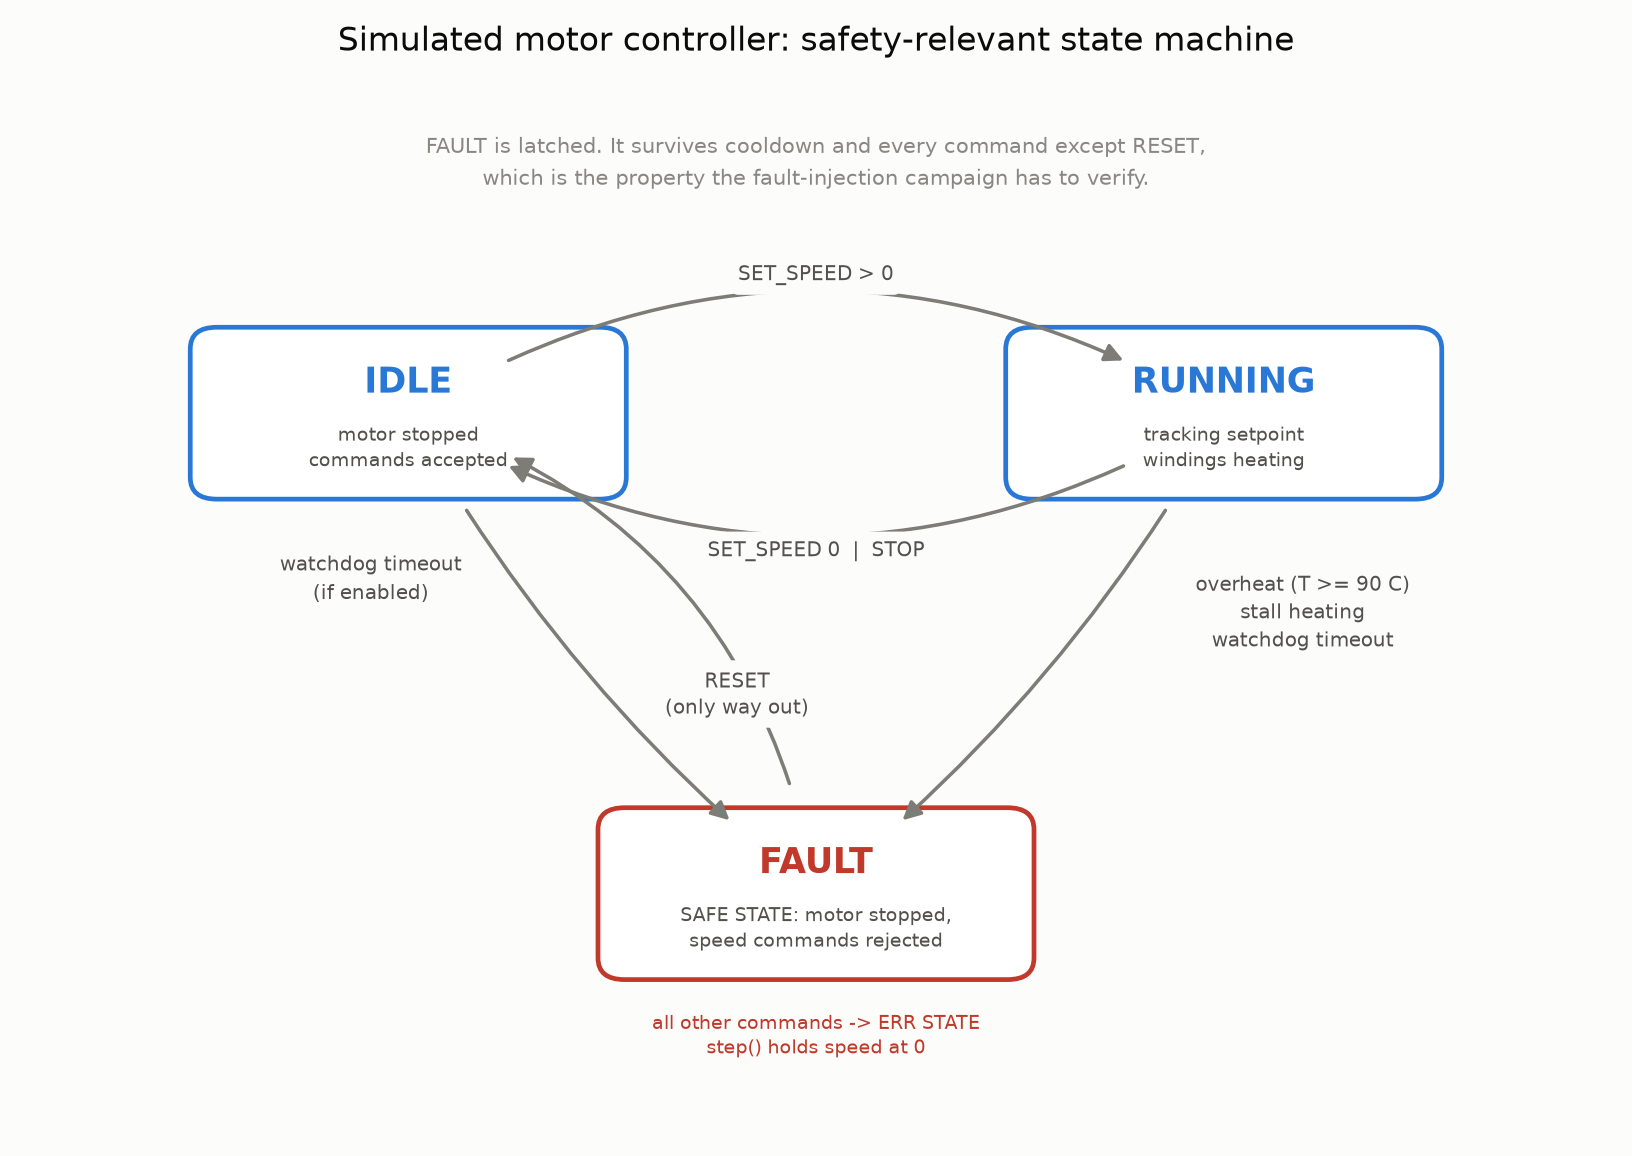
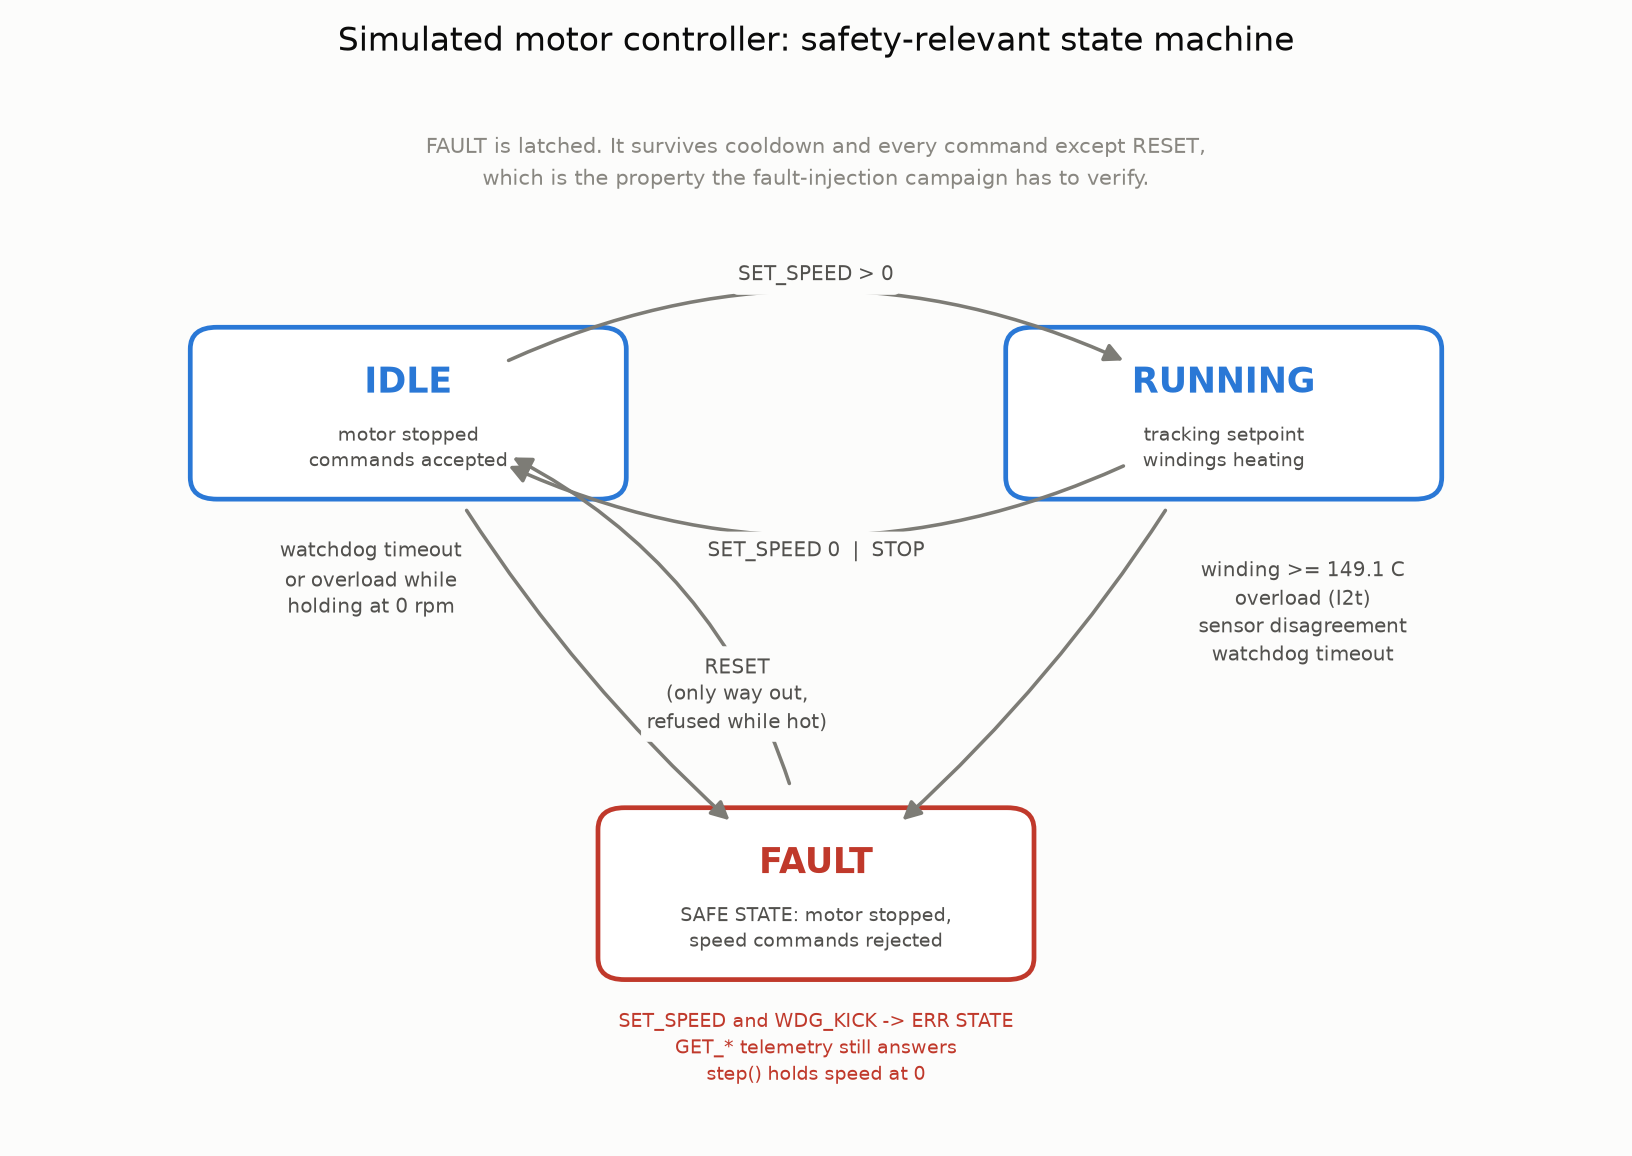
Redraw the state machine with the trip the code actually uses
The diagram still labelled the overheat trip T >= 90 C from the first model. The code trips at 149.1 C, a jammed rotor trips on the I2t channel, RESET is refused while hot, and GET_* telemetry still answers in FAULT.

diff --git a/scripts/plot_state_machine.py b/scripts/plot_state_machine.py
@@ -45,10 +45,11 @@ BOX_W, BOX_H = 2.5, 1.15
 TRANSITIONS = [
     ("IDLE", "RUNNING", "SET_SPEED > 0", -0.30, 0.0, 1.02),
     ("RUNNING", "IDLE", "SET_SPEED 0  |  STOP", -0.30, 0.0, -1.02),
-    ("RUNNING", "FAULT", "overheat (T >= 90 C)\nstall heating\nwatchdog timeout",
+    ("RUNNING", "FAULT",
+     "winding >= 149.1 C\noverload (I2t)\nsensor disagreement\nwatchdog timeout",
      -0.10, 1.70, 0.30),
-    ("IDLE", "FAULT", "watchdog timeout\n(if enabled)", 0.10, -1.45, 0.55),
-    ("FAULT", "IDLE", "RESET\n(only way out)", 0.30, 0.75, -0.30),
+    ("IDLE", "FAULT", "watchdog timeout\nor overload while\nholding at 0 rpm", 0.10, -1.45, 0.55),
+    ("FAULT", "IDLE", "RESET\n(only way out,\nrefused while hot)", 0.30, 0.75, -0.30),
 ]
 
 
@@ -89,7 +90,9 @@ def draw() -> Path:
                       "edgecolor": "none"})
 
     # FAULT latches: every other command is rejected while it is set.
-    ax.annotate("all other commands -> ERR STATE\nstep() holds speed at 0",
+    ax.annotate("SET_SPEED and WDG_KICK -> ERR STATE\n"
+                "GET_* telemetry still answers\n"
+                "step() holds speed at 0",
                 xy=(4.15, 0.10), ha="center", va="top", fontsize=8,
                 color=COLOR_FAULT, linespacing=1.4)
 
